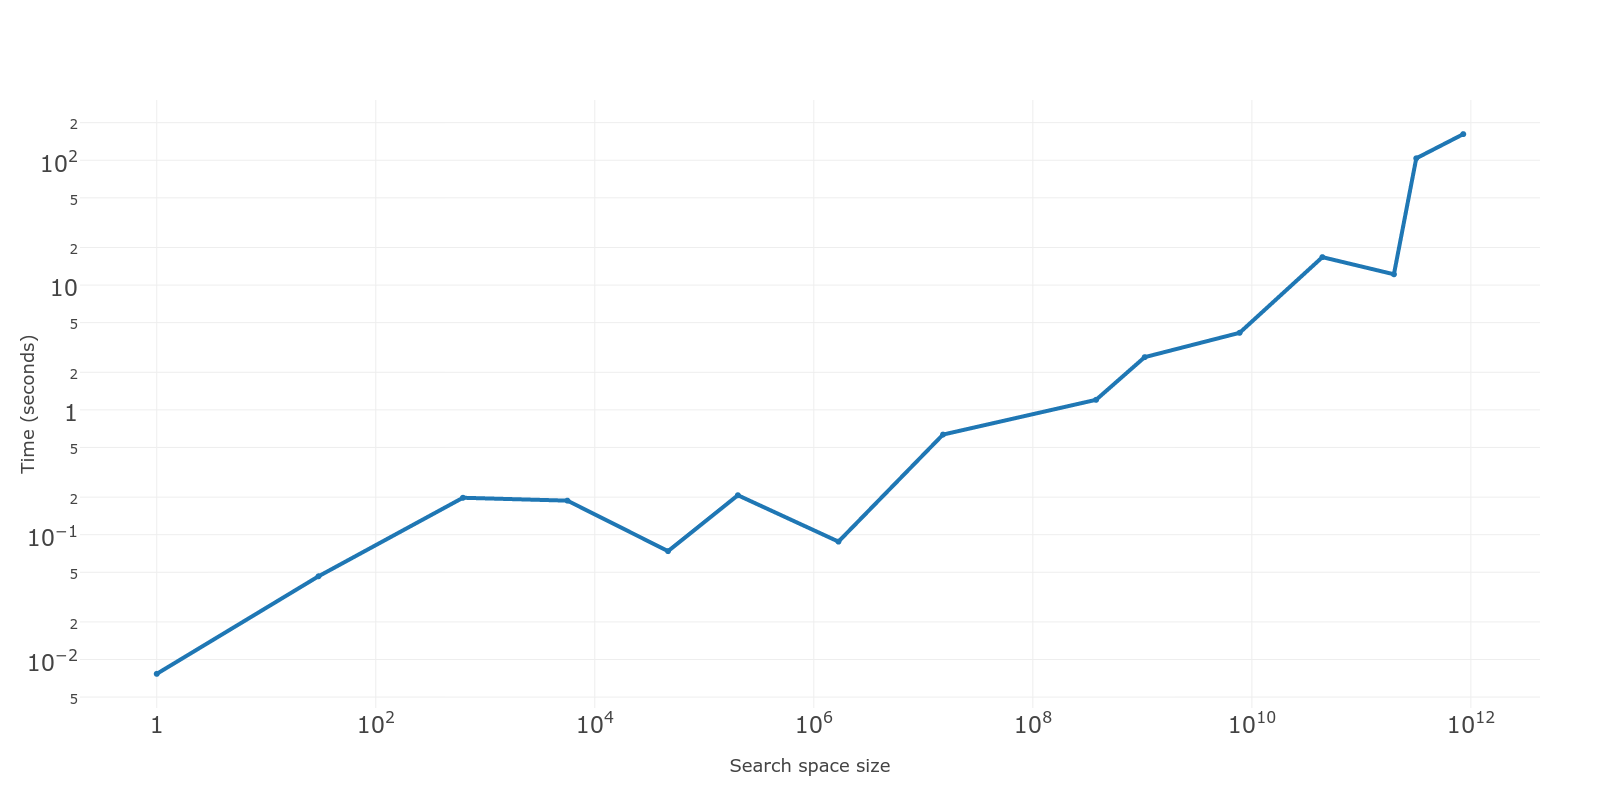
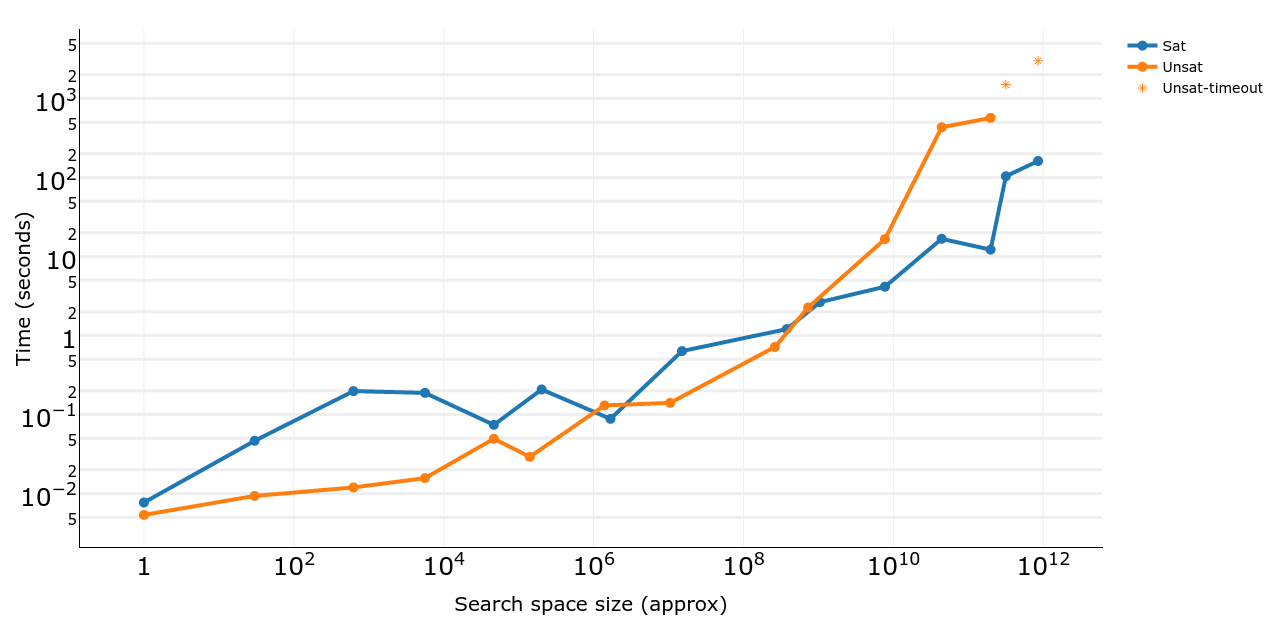
Add unsat values in plot and caption

diff --git a/doc/popl17/bsyn.tex b/doc/popl17/bsyn.tex
@@ -3735,7 +3735,7 @@ used in the mode to be synthesized. This is not ideal, since
 a bad choice might be a source of unsoundness in the decryptability check.
 In the present work, we address both these issues using duality and 
 obtain a significant improvement with respect to~\cite{TGD15:CADE}
-and ~\cite{DBLP:conf/csfw/MalozemoffKG14}.
+and~\cite{DBLP:conf/csfw/MalozemoffKG14}.
 The crucial observation is that the correctness check used 
 in~\cite{DBLP:conf/csfw/MalozemoffKG14} is in fact an instance of the duality principle, 
  and hence it can be 
@@ -3744,7 +3744,28 @@ to ensure correctness
 it is not necessary to synthesize a decryption scheme, but instead check for ``decryptability'',
 which 
 allows to reduce synthesis to an $\exists\exists$ satisfiability problem ($\Phi_{\exists\exists}$
-from Section~\ref{sec:synthesis}).
+from Section~\ref{sec:synthesis}). 
+This alternative approach resulted in a reduction in running time
+from ~100 seconds (using the $\Psi_{\exists\forall}$ approach described above) to
+~1 second, to synthesize well-known encryption schemes such as CBC, OFB, CFB, OFB, and PCBC. 
+Moreover, another benefit of 
+reducing synthesis to an $\exists\exists$ satisfiability problem
+is that we can leverage the incremental solving capabilities
+of SMT solvers such as Yices and Z3 to efficiently
+find hundreds of variants of block cipher modes.
+%While, as reported in~\cite{DBLP:conf/csfw/MalozemoffKG14},
+%their approach ``can synthesize secure modes of operation with $\leq 10$ instructions
+%in around $7$ minutes on a standard laptop'',
+Our implementation, based on the dual principle,
+find hundreds 
+of correct models of operations in less $5$ minutes in a regular laptop,
+including all the common ones mentioned above.
+It is not difficult to include additional 
+dual semantics or library extensions/restrictions to synthesize
+modes of operation with certain properties, e.g.
+using only the encryption algorithm of the block cipher, 
+or easy to parallelize (such as CTR).
+
 
 %ADRIA: Trying to safe space
 %The insight is that to synthesize, it doesn't matter what
@@ -3796,7 +3817,7 @@ without further checks being necessary.
 %   organization={IEEE}
 %}
 
-\subsection{Synthesizing padding-based schemes.}
+\subsection{Padding-based schemes}
 
 In public key cryptography, padding is the process of preparing a
 message for encryption.  % A modern form of padding is OAEP, which is
@@ -3838,6 +3859,35 @@ the cryptographic functions used in the padding scheme and
 %% Later, we used duality to replace the primal semantics with a
 %% dual semantics that captured ``decryptability'' constraints directly.
 
+\subsection{Secure multiplication}
+
+\begin{figure}
+\centering
+\includegraphics[width=\columnwidth]{plot-sec-mult-no-labels.png}
+\label{fig:plot-sec-mult}
+\caption{From left to right, the data points correspond to running time and approximate search
+space size of the following sketches: 
+(1) correct protocol, 
+(2) first line of $A$'s program,
+(3) messages from $C$,
+(4) messages from $C$ and $B$,
+(5) arithmetic operations in $A$ and $B$,
+(6) arithmetic operations in $C$, and messages from $C$ and $B$,
+(8) arithmetic operations,
+(8) arithmetic operations and messages from $B$,
+(9) arithmetic operations and messages from $C$ and $A$,
+(10) arithmetic operations and messages from $C$ and $B$,
+(11) arithmetic operations in $A$ and $B$, and program for $C$,
+(12) arithmetic operations in $A$, and programs for $C$ and $B$,
+(13) All but first line of $A$'s program, and programs for $C$ and $B$,
+(14) Programs for $A$, $B$, and $C$,
+(15) Programs for $A$, $B$, and $C$, letting $A$ have a total of 4 lines.
+The unsat instances are obtaines from (1)-(15) by adding the additional
+restriction that $C$ cannot use multiplication. This prevents this
+party from generated appropriately correlated random data,
+which results in unsatisfiable sketches.
+}
+\end{figure}
 
 
 \subsection{Oblivious Transfer}
@@ -3986,11 +4036,6 @@ protocol satisfies our security requirement.
 }
 \end{figure}
 
-\begin{figure}
-\centering
-\includegraphics[width=\columnwidth]{plot-sec-mult-no-labels.png}
-\label{fig:plot-sec-mult}
-\end{figure}
 
 
 Table~\ref{table} presents some statistics on our effort to synthesize 
